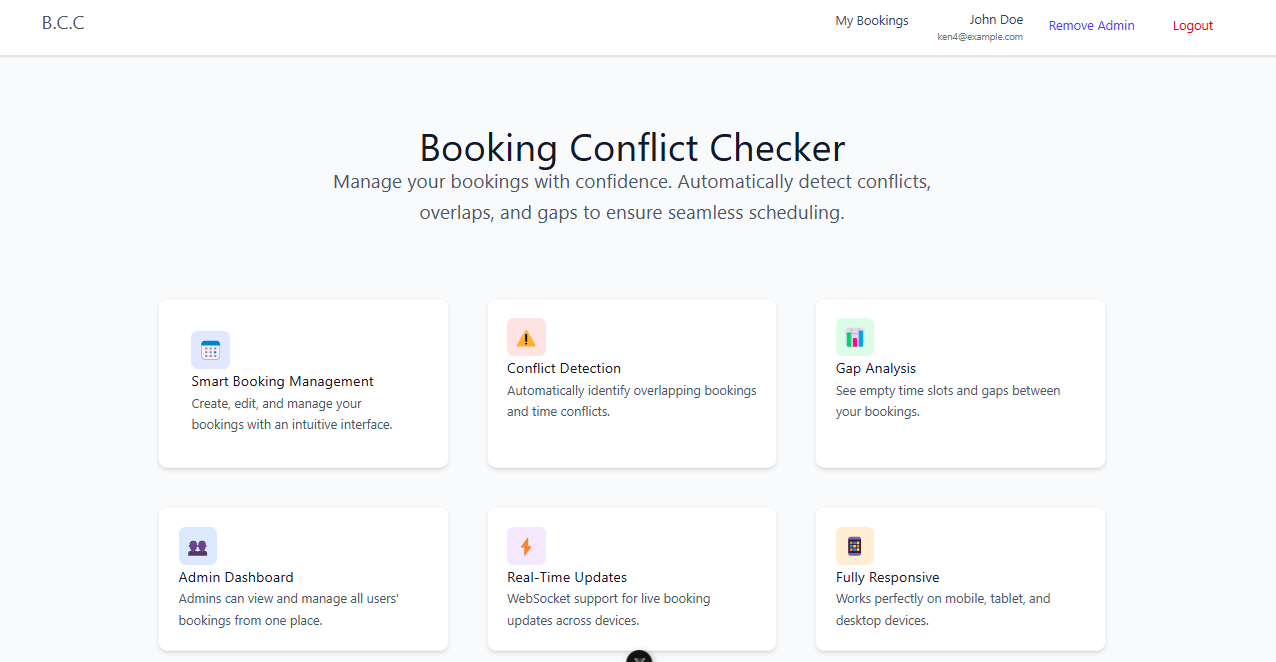
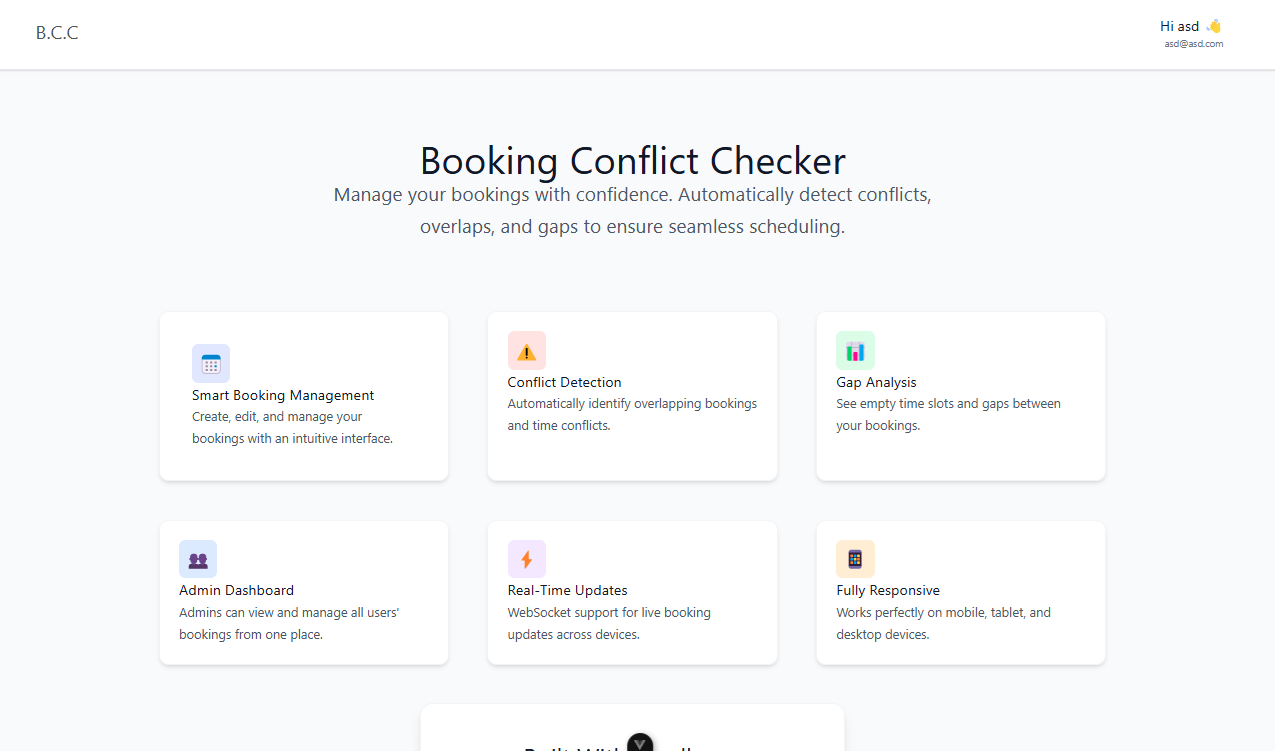
pic: update md picture

diff --git a/frontend/src/layouts/AdminLayout.vue b/frontend/src/layouts/AdminLayout.vue
@@ -6,66 +6,72 @@
         <h1 class="text-2xl font-bold text-indigo-600">B.C.C Admin</h1>
       </div>
 
-      <nav class="px-4 space-y-2 flex-1 overflow-y-auto">
-        <RouterLink
-          to="/admin/dashboard"
-          class="flex items-center gap-3 px-4 py-3 rounded-lg transition-colors"
-          :class="
-            $route.name === 'admin-dashboard'
-              ? 'bg-indigo-50 text-indigo-600 font-medium'
-              : 'text-gray-700 hover:bg-gray-50'
-          "
-        >
-          <svg class="w-5 h-5" fill="none" stroke="currentColor" viewBox="0 0 24 24">
-            <path
-              stroke-linecap="round"
-              stroke-linejoin="round"
-              stroke-width="2"
-              d="M3 12l2-2m0 0l7-7 7 7M5 10v10a1 1 0 001 1h3m10-11l2 2m-2-2v10a1 1 0 01-1 1h-3m-6 0a1 1 0 001-1v-4a1 1 0 011-1h2a1 1 0 011 1v4a1 1 0 001 1m-6 0h6"
-            />
-          </svg>
-          Dashboard
-        </RouterLink>
+      <nav class="px-4 flex-1 overflow-y-auto">
+        <div class="flex items-center gap-3 rounded-lg my-4 h-14 transition-colors">
+          <RouterLink
+            to="/admin/dashboard"
+            class="flex items-center gap-3 px-4 w-full h-full rounded-lg transition-colors"
+            :class="
+              $route.name === 'admin-dashboard'
+                ? 'bg-indigo-50 text-indigo-600 font-medium'
+                : 'text-gray-700 hover:bg-gray-50'
+            "
+          >
+            <svg class="w-5 h-5" fill="none" stroke="currentColor" viewBox="0 0 24 24">
+              <path
+                stroke-linecap="round"
+                stroke-linejoin="round"
+                stroke-width="2"
+                d="M3 12l2-2m0 0l7-7 7 7M5 10v10a1 1 0 001 1h3m10-11l2 2m-2-2v10a1 1 0 01-1 1h-3m-6 0a1 1 0 001-1v-4a1 1 0 011-1h2a1 1 0 011 1v4a1 1 0 001 1m-6 0h6"
+              />
+            </svg>
+            Dashboard
+          </RouterLink>
+        </div>
 
-        <RouterLink
-          to="/admin/bookings"
-          class="flex items-center gap-3 px-4 py-3 rounded-lg transition-colors"
-          :class="
-            $route.name === 'admin-bookings'
-              ? 'bg-indigo-50 text-indigo-600 font-medium'
-              : 'text-gray-700 hover:bg-gray-50'
-          "
-        >
-          <svg class="w-5 h-5" fill="none" stroke="currentColor" viewBox="0 0 24 24">
-            <path
-              stroke-linecap="round"
-              stroke-linejoin="round"
-              stroke-width="2"
-              d="M8 7V3m8 4V3m-9 8h10M5 21h14a2 2 0 002-2V7a2 2 0 00-2-2H5a2 2 0 00-2 2v12a2 2 0 002 2z"
-            />
-          </svg>
-          Bookings
-        </RouterLink>
+        <div class="flex items-center gap-3 rounded-lg my-4 h-14 transition-colors">
+          <RouterLink
+            to="/admin/bookings"
+            class="flex items-center gap-3 px-4 w-full h-full rounded-lg transition-colors"
+            :class="
+              $route.name === 'admin-bookings'
+                ? 'bg-indigo-50 text-indigo-600 font-medium'
+                : 'text-gray-700 hover:bg-gray-50'
+            "
+          >
+            <svg class="w-5 h-5" fill="none" stroke="currentColor" viewBox="0 0 24 24">
+              <path
+                stroke-linecap="round"
+                stroke-linejoin="round"
+                stroke-width="2"
+                d="M8 7V3m8 4V3m-9 8h10M5 21h14a2 2 0 002-2V7a2 2 0 00-2-2H5a2 2 0 00-2 2v12a2 2 0 002 2z"
+              />
+            </svg>
+            Bookings
+          </RouterLink>
+        </div>
 
-        <RouterLink
-          to="/admin/users"
-          class="flex items-center gap-3 px-4 py-3 rounded-lg transition-colors"
-          :class="
-            $route.name === 'admin-users'
-              ? 'bg-indigo-50 text-indigo-600 font-medium'
-              : 'text-gray-700 hover:bg-gray-50'
-          "
-        >
-          <svg class="w-5 h-5" fill="none" stroke="currentColor" viewBox="0 0 24 24">
-            <path
-              stroke-linecap="round"
-              stroke-linejoin="round"
-              stroke-width="2"
-              d="M12 4.354a4 4 0 110 5.292M15 21H3v-1a6 6 0 0112 0v1zm0 0h6v-1a6 6 0 00-9-5.197M13 7a4 4 0 11-8 0 4 4 0 018 0z"
-            />
-          </svg>
-          Users
-        </RouterLink>
+        <div class="flex items-center gap-3 rounded-lg my-4 h-14 transition-colors">
+          <RouterLink
+            to="/admin/users"
+            class="flex items-center gap-3 px-4 w-full h-full rounded-lg transition-colors"
+            :class="
+              $route.name === 'admin-users'
+                ? 'bg-indigo-50 text-indigo-600 font-medium'
+                : 'text-gray-700 hover:bg-gray-50'
+            "
+          >
+            <svg class="w-5 h-5" fill="none" stroke="currentColor" viewBox="0 0 24 24">
+              <path
+                stroke-linecap="round"
+                stroke-linejoin="round"
+                stroke-width="2"
+                d="M12 4.354a4 4 0 110 5.292M15 21H3v-1a6 6 0 0112 0v1zm0 0h6v-1a6 6 0 00-9-5.197M13 7a4 4 0 11-8 0 4 4 0 018 0z"
+              />
+            </svg>
+            Users
+          </RouterLink>
+        </div>
       </nav>
 
       <!-- User Info at Bottom -->
@@ -101,7 +107,7 @@
             <p class="text-sm text-gray-500 mt-1">{{ pageDescription }}</p>
           </div>
           <div class="flex items-center gap-3">
-            <span class="px-3 py-1 bg-indigo-100 text-indigo-700 text-xs font-medium rounded-full">
+            <span class="px-3 py-1 bg-indigo-100 text-indigo-700 text-lg font-medium rounded-full">
               Admin
             </span>
           </div>

diff --git a/frontend/src/App.vue b/frontend/src/App.vue
@@ -2,7 +2,8 @@
 import { RouterView, useRouter } from 'vue-router'
 import { useAuthStore } from '@/stores/auth'
 import { useRoute } from 'vue-router'
-import { computed, onMounted, ref } from 'vue'
+import { computed, onMounted } from 'vue'
+import Header from '@/components/Header.vue'
 
 const auth = useAuthStore()
 const route = useRoute()
@@ -11,97 +12,16 @@ const router = useRouter()
 // Check if current route is admin
 const isAdminRoute = computed(() => route.path.startsWith('/admin'))
 
-// User menu state
-const showUserMenu = ref(false)
-
 onMounted(async () => {
   await auth.fetchUser()
 })
-
-const handleLogout = async () => {
-  await auth.logout()
-  router.push('/login')
-}
-
-const toggleUserMenu = () => {
-  showUserMenu.value = !showUserMenu.value
-}
-
-const closeUserMenu = () => {
-  showUserMenu.value = false
-}
 </script>
 
 <template>
   <RouterView v-if="isAdminRoute" />
 
   <div v-else class="min-h-screen bg-gray-50 flex flex-col items-center">
-    <header class="shadow-sm w-full bg-white border-gray-200 border-b place-items-center">
-      <div class="max-w-dvw mx-auto px-4 sm:px-6 lg:px-8 flex flex-col gap-6 h-full w-full">
-        <div class="px-4 sm:px-6 lg:px-8 py-4 flex items-center justify-between">
-          <div class="flex justify-between gap-8 w-full">
-            <RouterLink to="/">
-              <h1 class="text-2xl font-bold text-gray-600">B.C.C</h1>
-            </RouterLink>
-            <nav class="hidden sm:flex flex-1 gap-6 w-full justify-end items-center"></nav>
-            <div class="flex gap-4 items-center">
-              <RouterLink
-                v-if="!auth.isAuthenticated"
-                to="/login"
-                class="px-4 py-2 text-indigo-600 hover:bg-indigo-50 rounded-lg transition-colors font-medium"
-                >Login</RouterLink
-              >
-              <RouterLink
-                v-if="!auth.isAuthenticated"
-                to="/register"
-                class="px-4 py-2 text-indigo-600 rounded-lg hover:bg-indigo-50 transition-colors font-medium"
-                >Sign Up</RouterLink
-              >
-              <!-- User Info Dropdown -->
-              <div v-else class="relative">
-                <button
-                  @click="toggleUserMenu"
-                  class="flex flex-col items-end hover:bg-gray-100 px-3 py-2 rounded-lg transition-colors cursor-pointer"
-                >
-                  <span class="text-lg font-bold text-gray-900">Hi {{ auth.user?.name }} 👋</span>
-                  <span class="text-xs text-gray-500">{{ auth.user?.email }}</span>
-                </button>
-
-                <!-- Dropdown Menu -->
-                <div
-                  v-if="showUserMenu"
-                  class="absolute right-0 mt-2 w-56 bg-white rounded-lg shadow-lg border border-gray-200 py-2 z-50"
-                  @click="closeUserMenu"
-                >
-                  <div class="px-4 py-2 text-sm text-gray-600 font-medium">Navigation</div>
-                  <div
-                    class="block w-full px-4 py-2 text-gray-700 hover:bg-gray-50 transition-colors text-sm text-left"
-                  >
-                    <RouterLink to="/bookings"> 📅 My Bookings </RouterLink>
-                  </div>
-                  <div class="border-t border-gray-200 my-1"></div>
-                  <div class="px-4 py-2 text-sm text-gray-600 font-medium">Account</div>
-                  <button
-                    @click="auth.toggleAdmin"
-                    :disabled="auth.loading"
-                    class="w-full text-left px-4 py-2 text-gray-700 hover:bg-gray-50 transition-colors text-sm disabled:opacity-50"
-                  >
-                    {{ auth.isAdmin ? '👑 Remove Admin Access' : '👑 Make Admin' }}
-                  </button>
-                  <div class="border-t border-gray-200 my-1"></div>
-                  <button
-                    @click="handleLogout"
-                    class="w-full text-left px-4 py-2 text-red-600 hover:bg-red-50 transition-colors text-sm font-medium"
-                  >
-                    🚪 Logout
-                  </button>
-                </div>
-              </div>
-            </div>
-          </div>
-        </div>
-      </div>
-    </header>
+    <Header />
 
     <main class="max-w-7xl mx-auto px-4 sm:px-6 lg:px-8 py-12 flex flex-col gap-6 h-full w-full">
       <div>

diff --git a/frontend/src/components/Header.vue b/frontend/src/components/Header.vue
@@ -1,0 +1,93 @@
+<template>
+  <header class="shadow-sm w-full bg-white border-gray-200 border-b">
+    <div class="max-w-dvw mx-auto px-4 sm:px-6 lg:px-8 flex flex-col gap-6 h-full w-full">
+      <div class="px-4 sm:px-6 lg:px-8 py-4 flex items-center justify-between">
+        <div class="flex justify-between gap-8 w-full items-center">
+          <RouterLink to="/">
+            <h1 class="text-2xl font-bold text-gray-600">B.C.C</h1>
+          </RouterLink>
+          <nav class="hidden sm:flex flex-1 gap-6 w-full justify-end items-center"></nav>
+          <div class="flex gap-4 items-center">
+            <RouterLink
+              v-if="!auth.isAuthenticated"
+              to="/login"
+              class="px-4 py-2 text-indigo-600 hover:bg-indigo-50 rounded-lg transition-colors font-medium"
+              >Login</RouterLink
+            >
+            <RouterLink
+              v-if="!auth.isAuthenticated"
+              to="/register"
+              class="px-4 py-2 text-indigo-600 rounded-lg hover:bg-indigo-50 transition-colors font-medium"
+              >Sign Up</RouterLink
+            >
+            <!-- User Info Dropdown -->
+            <div v-else class="relative">
+              <button
+                @click="toggleUserMenu"
+                class="flex flex-col items-end hover:bg-gray-100 px-3 py-2 rounded-lg transition-colors cursor-pointer"
+              >
+                <span class="text-lg font-bold text-gray-900">Hi {{ auth.user?.name }} 👋</span>
+                <span class="text-xs text-gray-500">{{ auth.user?.email }}</span>
+              </button>
+
+              <!-- Dropdown Menu -->
+              <div
+                v-if="showUserMenu"
+                class="absolute right-0 mt-2 w-56 bg-white rounded-lg shadow-lg border border-gray-200 py-2 z-50"
+                @click="closeUserMenu"
+              >
+                <div class="px-4 py-2 text-sm text-gray-600 font-medium">Navigation</div>
+                <div class="block w-full px-4 py-2 text-gray-700 hover:bg-gray-50 transition-colors text-sm text-left">
+                    <RouterLink
+                      to="/bookings"
+                    >
+                      📅 My Bookings
+                    </RouterLink>
+                </div c>
+                <div class="border-t border-gray-200 my-1"></div>
+                <div class="px-4 py-2 text-sm text-gray-600 font-medium">Account</div>
+                <button
+                  @click="auth.toggleAdmin"
+                  :disabled="auth.loading"
+                  class="w-full text-left px-4 py-2 text-gray-700 hover:bg-gray-50 transition-colors text-sm disabled:opacity-50"
+                >
+                  {{ auth.isAdmin ? '👑 Remove Admin Access' : '👑 Make Admin' }}
+                </button>
+                <div class="border-t border-gray-200 my-1"></div>
+                <button
+                  @click="handleLogout"
+                  class="w-full text-left px-4 py-2 text-red-600 hover:bg-red-50 transition-colors text-sm font-medium"
+                >
+                  🚪 Logout
+                </button>
+              </div>
+            </div>
+          </div>
+        </div>
+      </div>
+    </div>
+  </header>
+</template>
+
+<script setup lang="ts">
+import { RouterLink, useRouter } from 'vue-router'
+import { useAuthStore } from '@/stores/auth'
+import { ref } from 'vue'
+
+const auth = useAuthStore()
+const router = useRouter()
+const showUserMenu = ref(false)
+
+const handleLogout = async () => {
+  await auth.logout()
+  router.push('/login')
+}
+
+const toggleUserMenu = () => {
+  showUserMenu.value = !showUserMenu.value
+}
+
+const closeUserMenu = () => {
+  showUserMenu.value = false
+}
+</script>

diff --git a/frontend/src/views/admin/AdminBookingsView.vue b/frontend/src/views/admin/AdminBookingsView.vue
@@ -128,9 +128,9 @@
           <button
             v-if="pagination.has_prev_page"
             @click="doSearch(pagination.current_page - 1)"
-            class="px-4 py-2 bg-indigo-100 text-indigo-700 rounded hover:bg-indigo-200"
+            class="px-4 py-2 bg-indigo-600 text-white rounded hover:bg-indigo-700"
           >
-            Prev
+            ← Previous
           </button>
           <span class="px-3 py-2 text-gray-600">
             Page {{ pagination.current_page }} / {{ pagination.total_pages }}
@@ -138,9 +138,9 @@
           <button
             v-if="pagination.has_next_page"
             @click="doSearch(pagination.current_page + 1)"
-            class="px-4 py-2 bg-indigo-100 text-indigo-700 rounded hover:bg-indigo-200"
+            class="px-4 py-2 bg-indigo-600 text-white rounded hover:bg-indigo-700"
           >
-            Next
+            Next →
           </button>
         </div>
       </div>
